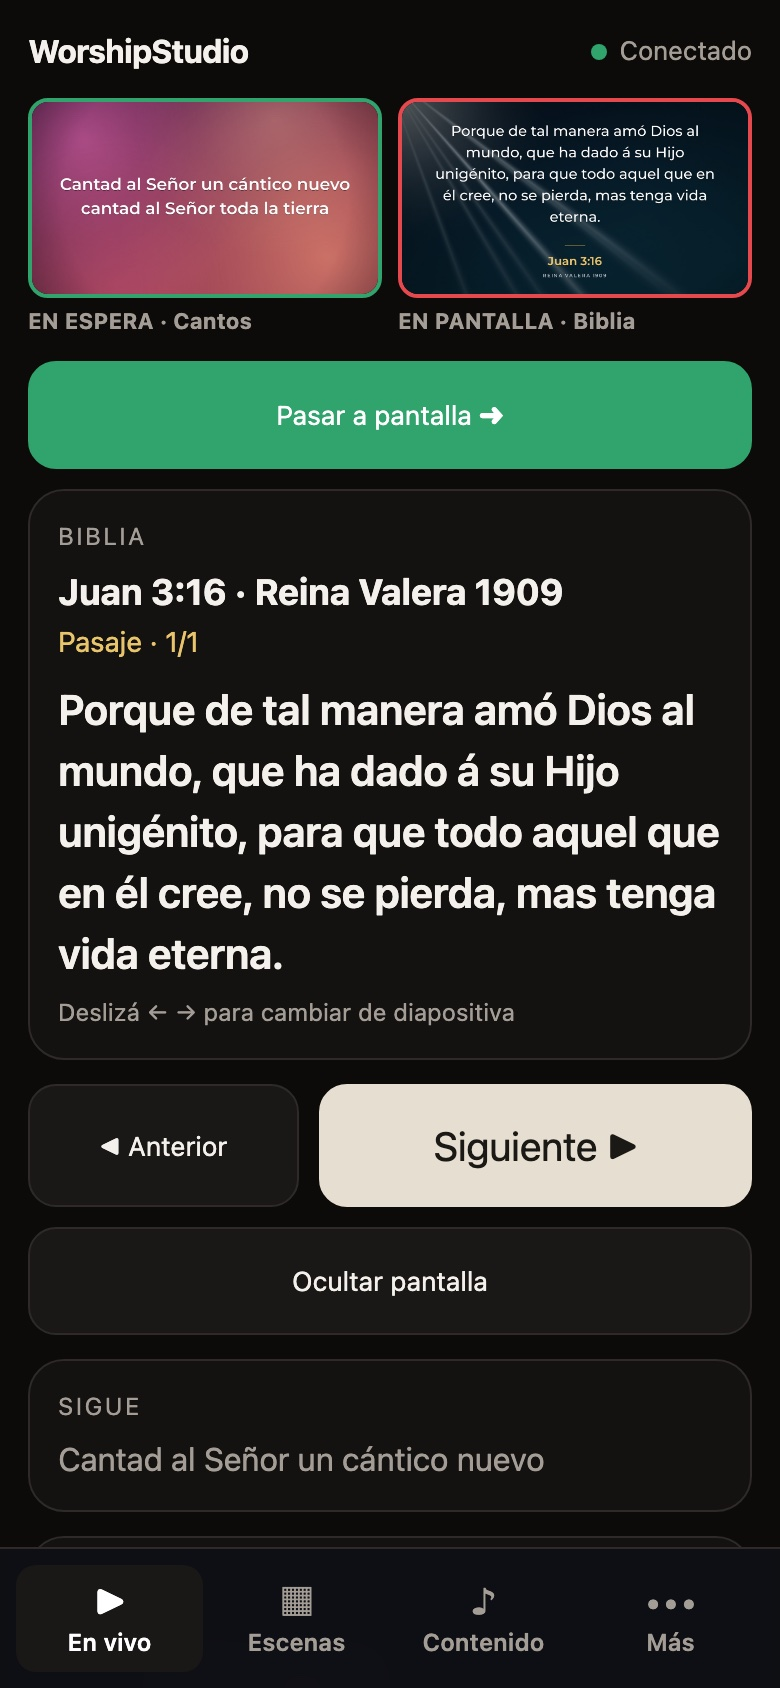
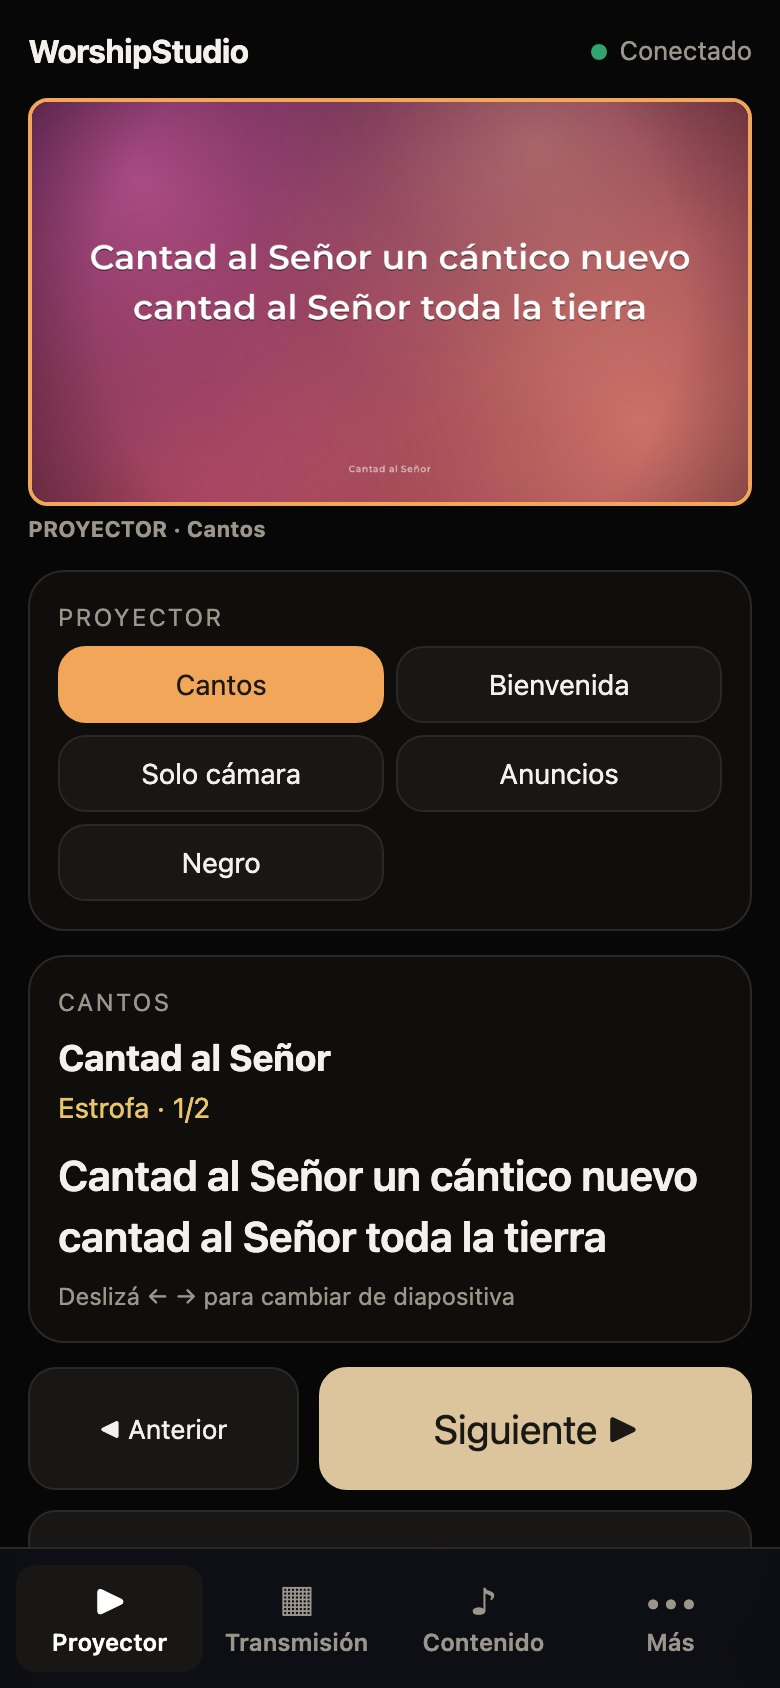
Web: captura con proyector y transmisión, control del celular y la tablet nuevos

diff --git a/index.html b/index.html
@@ -13,7 +13,7 @@
   <link rel="icon" href="logo.png" type="image/png">
   <link rel="icon" href="img/icono-32.png" sizes="32x32" type="image/png">
   <link rel="apple-touch-icon" href="img/icono-180.png">
-  <link rel="stylesheet" href="estilos.css?v=14">
+  <link rel="stylesheet" href="estilos.css?v=15">
 </head>
 <body>
   <a class="skip" href="#contenido">Saltar al contenido</a>
@@ -52,7 +52,7 @@
         <div class="showcase__glow" aria-hidden="true"></div>
         <div class="window">
           <div class="window__bar" aria-hidden="true"><i></i><i></i><i></i><span>WorshipStudio</span></div>
-          <img src="img/app.jpg" alt="WorshipStudio: un canto EN ESPERA a la izquierda, un salmo EN PANTALLA a la derecha y el Control en vivo con el botón Pasar a pantalla" width="2000" height="1305">
+          <img src="img/app.jpg" alt="WorshipStudio con proyector y transmisión por separado: la transmisión muestra la cámara con el canto en la esquina y el panel En vivo muestra el proyector con sus botones" width="2000" height="1477">
         </div>
       </div>
       </div>
@@ -184,8 +184,8 @@
         </div>
       </div>
       <div class="wrap devices">
-        <div class="device device--phone is-on" data-device="celular"><div class="device__screen"><img src="img/control-celular.jpg" alt="Control desde el celular: en espera, en pantalla, pasar a pantalla y siguiente" loading="lazy" width="780" height="1688"></div></div>
-        <div class="device device--tablet" data-device="tablet"><div class="device__screen"><img src="img/control-tablet.jpg" alt="Control desde la tablet: controles a la izquierda, pantallas y orden del culto a la derecha" loading="lazy" width="1800" height="1251"></div></div>
+        <div class="device device--phone is-on" data-device="celular"><div class="device__screen"><img src="img/control-celular.jpg" alt="Control desde el celular: el proyector con sus botones, el canto actual y Siguiente" loading="lazy" width="780" height="1688"></div></div>
+        <div class="device device--tablet" data-device="tablet"><div class="device__screen"><img src="img/control-tablet.jpg" alt="Control desde la tablet: el canto actual a la izquierda y el proyector con sus botones a la derecha" loading="lazy" width="1800" height="1251"></div></div>
       </div>
     </section>
 
@@ -349,6 +349,6 @@
     </div>
   </footer>
 
-  <script src="app.js?v=14" defer></script>
+  <script src="app.js?v=15" defer></script>
 </body>
 </html>

diff --git a/biblioteca.html b/biblioteca.html
@@ -13,7 +13,7 @@
   <link rel="icon" href="logo.png" type="image/png">
   <link rel="icon" href="img/icono-32.png" sizes="32x32" type="image/png">
   <link rel="apple-touch-icon" href="img/icono-180.png">
-  <link rel="stylesheet" href="estilos.css?v=14">
+  <link rel="stylesheet" href="estilos.css?v=15">
 </head>
 <body>
   <a class="skip" href="#contenido">Saltar al contenido</a>
@@ -84,7 +84,7 @@
       <nav aria-label="Pie"><a href="mailto:contact.worshipstudio@gmail.com">Contacto</a><a href="biblioteca.html">Biblioteca</a><a href="licencias.html">Licencias</a><a href="https://github.com/solsox/WorshipStudio" rel="noopener">Código</a><a href="https://github.com/solsox/WorshipStudio/releases" rel="noopener">Versiones</a></nav>
     </div>
   </footer>
-  <script src="app.js?v=14"></script>
-  <script src="biblioteca.js?v=14"></script>
+  <script src="app.js?v=15"></script>
+  <script src="biblioteca.js?v=15"></script>
 </body>
 </html>

diff --git a/licencias.html b/licencias.html
@@ -13,7 +13,7 @@
   <link rel="icon" href="logo.png" type="image/png">
   <link rel="icon" href="img/icono-32.png" sizes="32x32" type="image/png">
   <link rel="apple-touch-icon" href="img/icono-180.png">
-  <link rel="stylesheet" href="estilos.css?v=14">
+  <link rel="stylesheet" href="estilos.css?v=15">
 </head>
 <body>
   <a class="skip" href="#contenido">Saltar al contenido</a>
@@ -80,6 +80,6 @@
       <nav aria-label="Pie"><a href="mailto:contact.worshipstudio@gmail.com">Contacto</a><a href="biblioteca.html">Biblioteca</a><a href="licencias.html">Licencias</a><a href="https://github.com/solsox/WorshipStudio" rel="noopener">Código</a><a href="https://github.com/solsox/WorshipStudio/releases" rel="noopener">Versiones</a></nav>
     </div>
   </footer>
-  <script src="app.js?v=14"></script>
+  <script src="app.js?v=15"></script>
 </body>
 </html>
